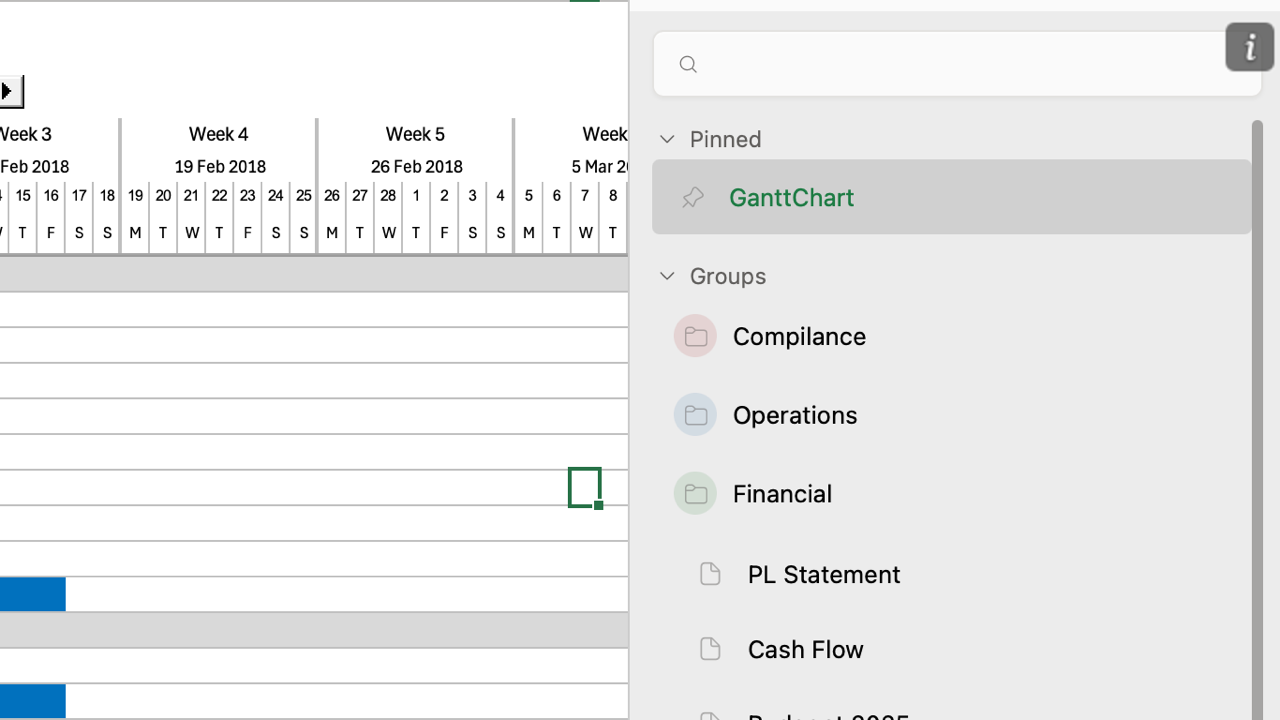
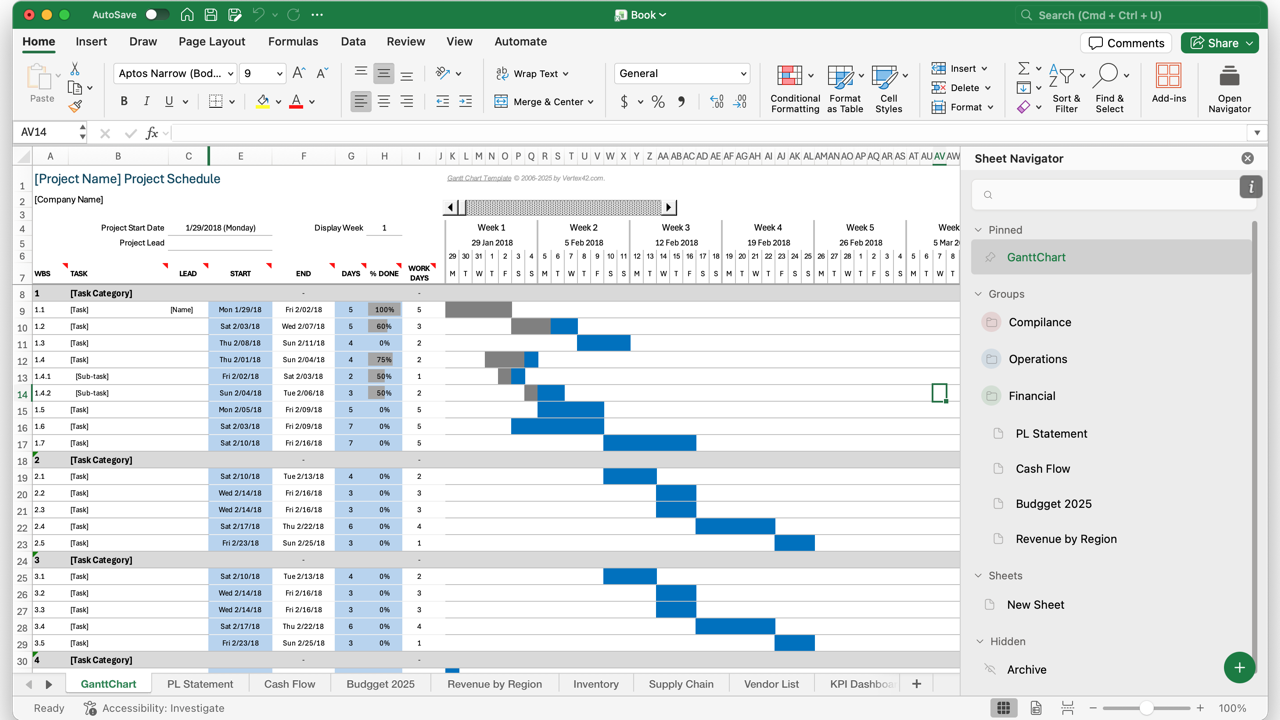
docs(docs): correct overview screenshot source

diff --git a/docs/appsource/screenshot-plan.md b/docs/appsource/screenshot-plan.md
@@ -6,13 +6,13 @@ The submission candidate set contains five static PNG files. Each file is exactl
 Use these PNG files for the Marketplace listing; landing-page GIFs are marketing assets, not
 replacements for the static Marketplace screenshots.
 
-| Candidate                                                      | Caption                                                                                             | Source asset / feature mapping                                                                      |
-| -------------------------------------------------------------- | --------------------------------------------------------------------------------------------------- | --------------------------------------------------------------------------------------------------- |
-| `docs/appsource/screenshots/sheet-navigator-overview.png`      | Sheet Navigator shows pinned, grouped, hidden, and regular worksheets in a focused Excel task pane. | Existing real Excel client capture, normalized from 1366 × 768 px. Main navigator overview.         |
-| `docs/appsource/screenshots/sheet-navigator-search.png`        | Search filters worksheet names so users can jump to the right sheet quickly.                        | Representative light-theme frame from `assets/landing/search-light-demo.gif`. Search.               |
-| `docs/appsource/screenshots/sheet-navigator-groups.png`        | Collapsible groups help organize related worksheets in large workbooks.                             | Representative light-theme frame from `assets/landing/groups-light-demo.gif`. Groups.               |
-| `docs/appsource/screenshots/sheet-navigator-preview.png`       | Worksheet previews help identify a sheet before switching to it.                                    | Representative light-theme frame from `assets/landing/sheet-preview-demo.gif`. Preview.             |
-| `docs/appsource/screenshots/sheet-navigator-drag-and-drop.png` | Visible drop feedback helps users reorganize worksheet entries from the task pane.                  | Representative light-theme frame from `assets/landing/drag-and-drop-light-demo.gif`. Drag and drop. |
+| Candidate                                                      | Caption                                                                                             | Source asset / feature mapping                                                                                                                            |
+| -------------------------------------------------------------- | --------------------------------------------------------------------------------------------------- | --------------------------------------------------------------------------------------------------------------------------------------------------------- |
+| `docs/appsource/screenshots/sheet-navigator-overview.png`      | Sheet Navigator shows pinned, grouped, hidden, and regular worksheets in a focused Excel task pane. | User-provided full Excel client capture, originally 3084 × 1864 px, cropped to the Excel window and normalized to 1280 × 720 px. Main navigator overview. |
+| `docs/appsource/screenshots/sheet-navigator-search.png`        | Search filters worksheet names so users can jump to the right sheet quickly.                        | Representative light-theme frame from `assets/landing/search-light-demo.gif`. Search.                                                                     |
+| `docs/appsource/screenshots/sheet-navigator-groups.png`        | Collapsible groups help organize related worksheets in large workbooks.                             | Representative light-theme frame from `assets/landing/groups-light-demo.gif`. Groups.                                                                     |
+| `docs/appsource/screenshots/sheet-navigator-preview.png`       | Worksheet previews help identify a sheet before switching to it.                                    | Representative light-theme frame from `assets/landing/sheet-preview-demo.gif`. Preview.                                                                   |
+| `docs/appsource/screenshots/sheet-navigator-drag-and-drop.png` | Visible drop feedback helps users reorganize worksheet entries from the task pane.                  | Representative light-theme frame from `assets/landing/drag-and-drop-light-demo.gif`. Drag and drop.                                                       |
 
 ## Static PNG requirement
 
